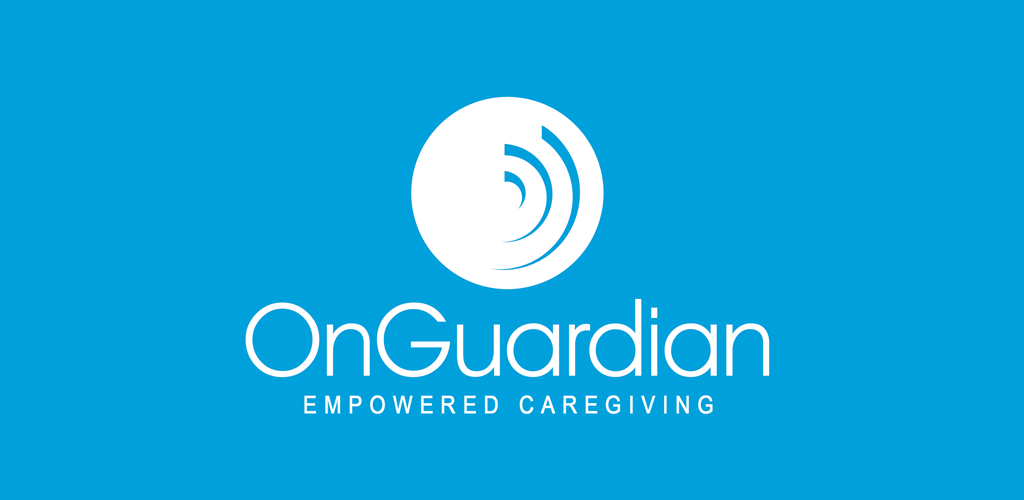
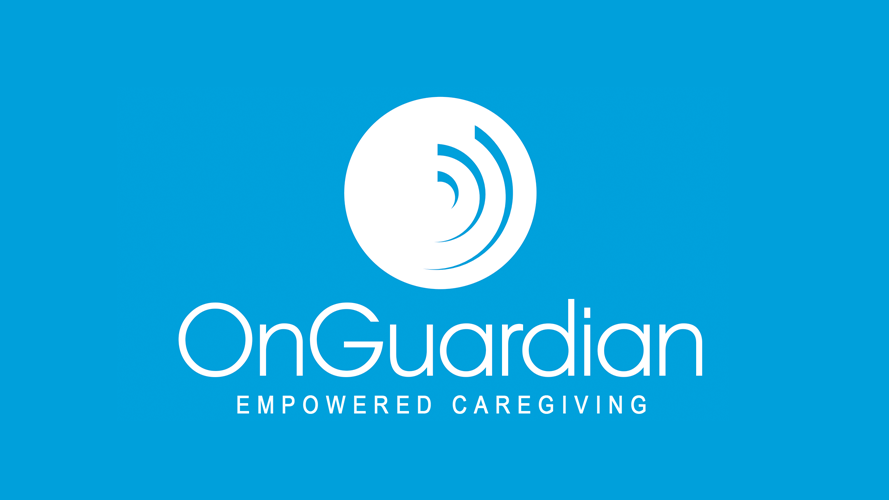
- portfolio

diff --git a/index.html b/index.html
@@ -436,7 +436,7 @@
           <div class="col-lg-4 col-md-6 portfolio-item filter-mobile">
             <div class="portfolio-wrap">
               <img
-                src="assets/img/portfolio/onguardian/banner2.png"
+                src="assets/img/portfolio/onguardian/banner3.png"
                 class="img-fluid"
                 alt=""
               />
@@ -445,7 +445,7 @@
                 <p>App</p>
                 <div class="portfolio-links">
                   <a
-                    href="assets/img/portfolio/onguardian/banner2.png"
+                    href="assets/img/portfolio/onguardian/banner3.png"
                     data-gallery="portfolioGallery"
                     class="portfokio-lightbox"
                     title="OnGuardian"
